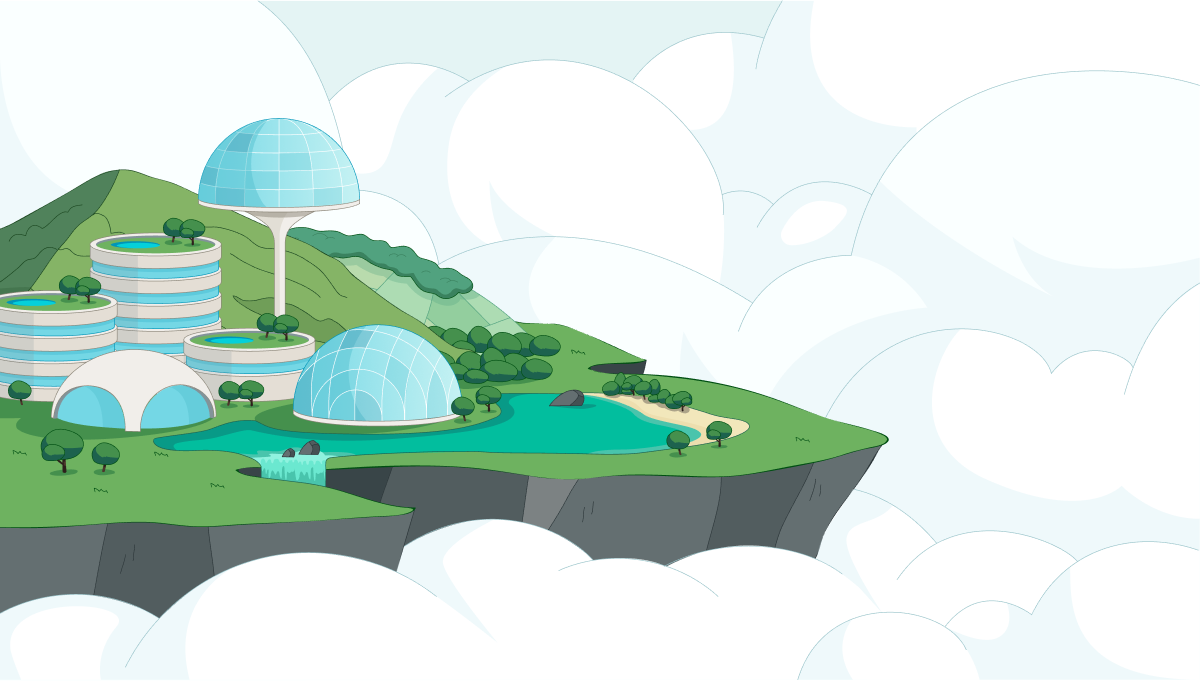
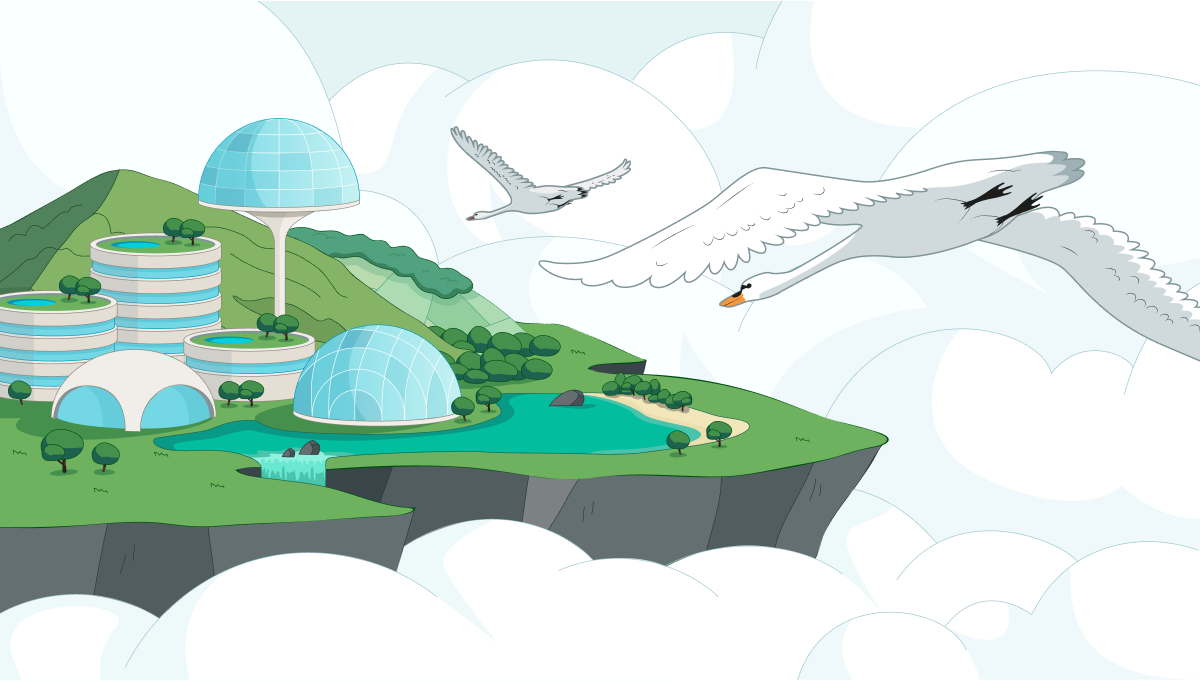
Updated ribbon color and managed cloud CTA image
- Updated the Fleet Cloud beta ribbon to match new brand colors
- Updated the image for Fleet Cloud beta to include the swans

diff --git a/website/assets/styles/layout.less b/website/assets/styles/layout.less
@@ -37,7 +37,7 @@ html, body {
 }
 
 [purpose='header-ribbon-cta'] {
-  background-color: @core-fleet-black;
+  background-color: #7487C2;
   p {
     font-size: 14px;
     line-height: 20px;
@@ -48,7 +48,7 @@ html, body {
     line-height: 20px;
     font-weight: 700;
     text-decoration: underline;
-    color: #ff5c83;
+    color: #fff;
   }
 }
 
